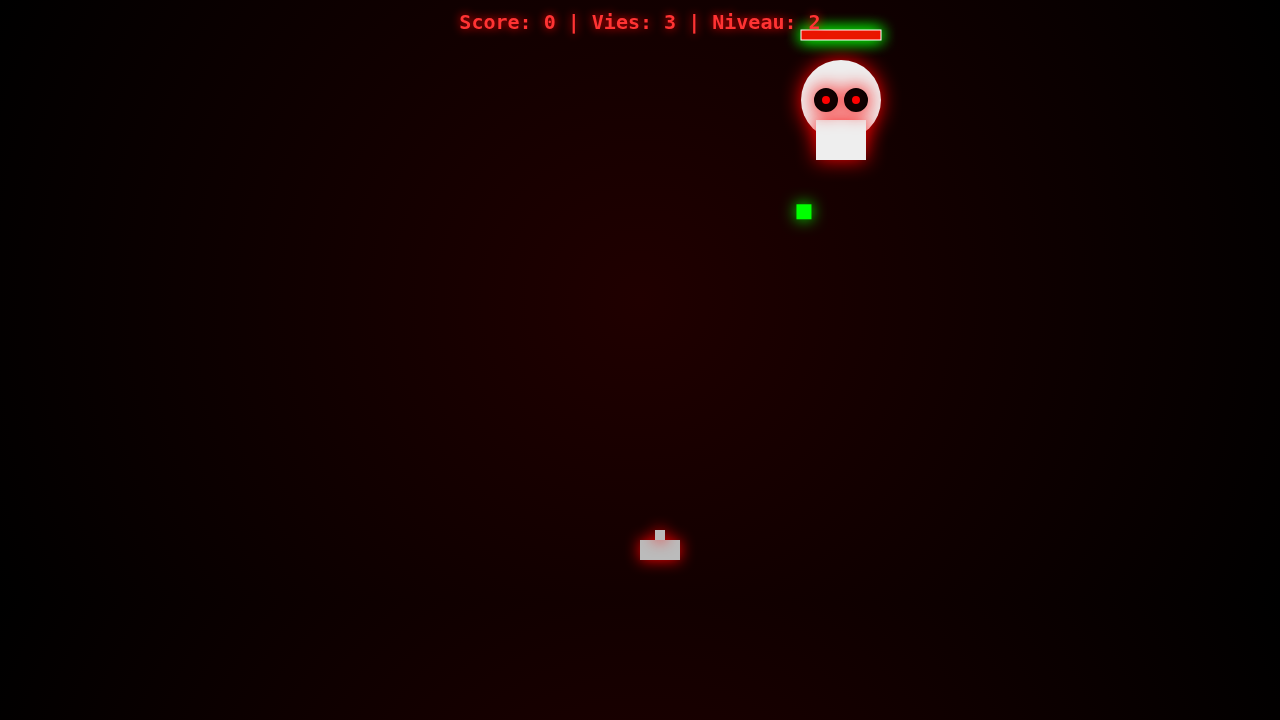
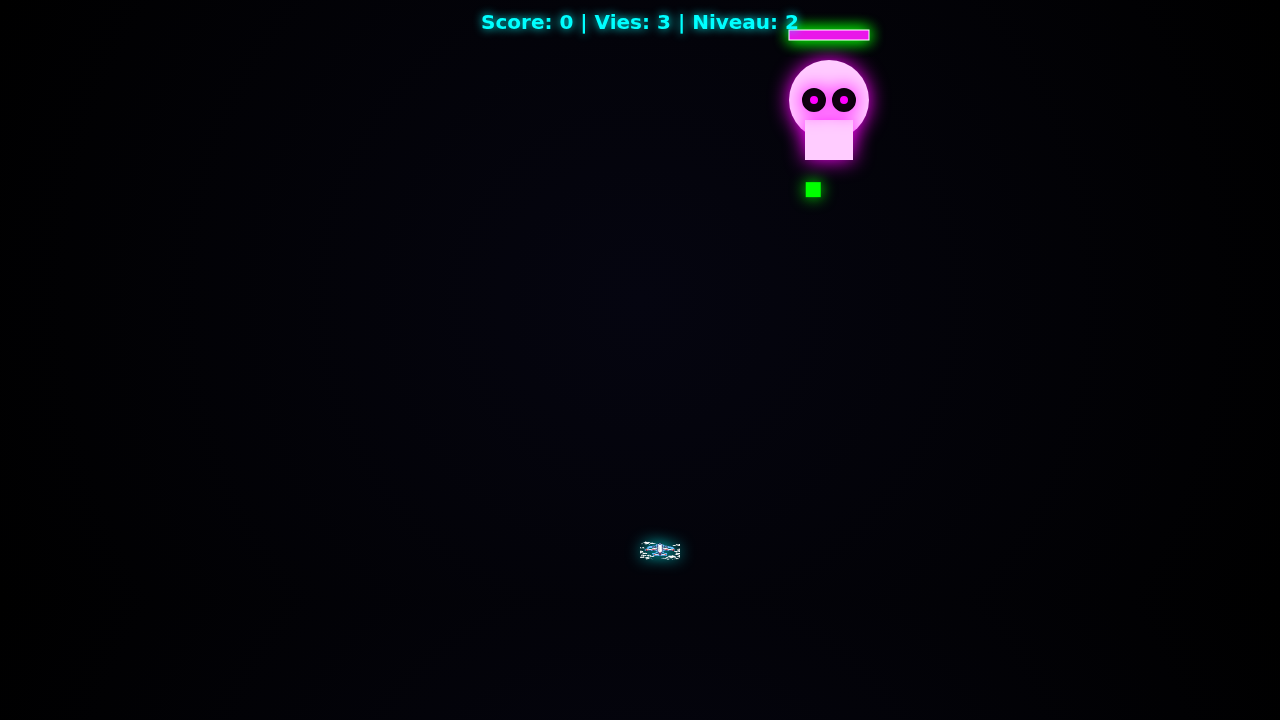
Reskin game to Neon Space Invaders and integrate player sprite

Changed region(s): [[0.3438, 0.0, 0.7188, 0.3056], [0.4375, 0.3056, 0.5625, 0.5194], [0.4688, 0.7028, 0.5625, 0.7944]]

diff --git a/index.html b/index.html
@@ -2,14 +2,14 @@
 <html lang="fr">
 <head>
 <meta charset="UTF-8">
-<title>Horror Space Invaders</title>
+<title>Neon Space Invaders</title>
 <style>
     html, body {
         margin: 0;
-        background: radial-gradient(circle at center, #200000, #000);
+        background: radial-gradient(circle at center, #050510, #000);
         overflow: hidden;
-        font-family: 'Courier New', monospace;
-        color: #ff3333;
+        font-family: 'Arial', sans-serif;
+        color: cyan;
     }
 
     canvas {
@@ -23,7 +23,7 @@
         width: 100%;
         text-align: center;
         font-size: 20px;
-        text-shadow: 0 0 10px #ff0000;
+        text-shadow: 0 0 10px cyan;
         font-weight: bold;
     }
 
@@ -31,36 +31,36 @@
         position: absolute;
         inset: 0;
         display: none;
-        background: rgba(0,0,0,0.9);
+        background: rgba(0,0,0,0.85);
         flex-direction: column;
         align-items: center;
         justify-content: center;
-        color: #ff0000;
-        text-shadow: 0 0 20px #ff0000;
+        color: magenta;
+        text-shadow: 0 0 20px magenta;
     }
 
     #gameOver h1 {
         font-size: 60px;
         margin-bottom: 20px;
-        border-bottom: 2px solid #ff0000;
+        border-bottom: 2px solid magenta;
     }
 
     #gameOver button {
         margin-top: 20px;
         padding: 12px 30px;
         font-size: 20px;
-        font-family: 'Courier New', monospace;
+        font-family: 'Arial', sans-serif;
         cursor: pointer;
-        background: #110000;
-        color: #ff3333;
-        border: 2px solid #ff3333;
-        box-shadow: 0 0 15px #ff0000;
+        background: #000;
+        color: magenta;
+        border: 2px solid magenta;
+        box-shadow: 0 0 15px magenta;
         transition: 0.3s;
     }
 
     #gameOver button:hover {
-        background: #ff3333;
-        color: black;
+        background: magenta;
+        color: white;
     }
 </style>
 </head>
@@ -81,6 +81,9 @@
 ========================== */
 const canvas = document.getElementById("game");
 const ctx = canvas.getContext("2d");
+
+const playerImg = new Image();
+playerImg.src = "player.png";
 
 let score = 0;
 let lives = 3;
@@ -577,7 +580,7 @@ function drawBoss() {
     if (boss.isPhantom) {
         ctx.shadowColor = "#00ff00"; // Phantom Green
     } else {
-        ctx.shadowColor = boss.isMega ? "#aa00ff" : "#ff0000";
+        ctx.shadowColor = boss.isMega ? "#aa00ff" : "magenta";
     }
     ctx.shadowBlur = 20;
 
@@ -596,7 +599,7 @@ function drawBoss() {
     if (boss.isPhantom) {
         ctx.fillStyle = "#ccffcc"; // Ghostly Green
     } else {
-        ctx.fillStyle = boss.isMega ? "#ccbbff" : "#eeeeee";
+        ctx.fillStyle = boss.isMega ? "#ccbbff" : "#ffccff";
     }
 
     ctx.beginPath();
@@ -614,7 +617,7 @@ function drawBoss() {
     // Glowing eyes
     if (boss.phase === BOSS_PHASE.STUNNED) {
         // X eyes for stunned
-        ctx.strokeStyle = "#ff0000";
+        ctx.strokeStyle = "magenta";
         ctx.lineWidth = 3;
 
         // Left Eye X
@@ -628,7 +631,7 @@ function drawBoss() {
         if (boss.isPhantom) {
              ctx.fillStyle = "#00ff00";
         } else {
-             ctx.fillStyle = boss.phase === BOSS_PHASE.LASER_FIRE ? "#ffffff" : "#ff0000";
+             ctx.fillStyle = boss.phase === BOSS_PHASE.LASER_FIRE ? "#ffffff" : "magenta";
         }
         ctx.beginPath();
         ctx.arc(-15, -10, 4, 0, Math.PI*2);
@@ -645,7 +648,7 @@ function drawBoss() {
 
     if (boss.isPhantom) ctx.fillStyle = "#00ff00";
     else if (boss.isMega) ctx.fillStyle = "#aa00ff";
-    else ctx.fillStyle = "#ff0000";
+    else ctx.fillStyle = "magenta";
 
     ctx.fillRect(boss.x, boss.y - 30, boss.width * (Math.max(0, boss.hp) / boss.maxHp), 10);
     ctx.strokeStyle = "#fff";
@@ -675,7 +678,7 @@ function createExplosion(x, y) {
             vx: (Math.random() - 0.5) * 4,
             vy: (Math.random() - 0.5) * 4,
             life: 40,
-            color: Math.random() > 0.5 ? "#ff0000" : "#880000"
+            color: Math.random() > 0.5 ? "cyan" : "magenta"
         });
     }
 }
@@ -972,11 +975,25 @@ function draw() {
 
     // Joueur
     ctx.shadowBlur = 15;
-    ctx.shadowColor = player.invincible ? "#ffd700" : "#ff0000";
-    ctx.fillStyle = player.invincible ? "#ffff00" : "#bbbbbb";
+    ctx.shadowColor = player.invincible ? "gold" : "cyan";
+
+    // Draw Sprite
+    if (playerImg.complete) {
+        ctx.drawImage(playerImg, player.x, player.y, player.width, player.height);
+    } else {
+        // Fallback
+        ctx.fillStyle = "cyan";
+        ctx.fillRect(player.x, player.y, player.width, player.height);
+    }
+
+    if (player.invincible) {
+         ctx.strokeStyle = "gold";
+         ctx.lineWidth = 2;
+         ctx.strokeRect(player.x - 2, player.y - 2, player.width + 4, player.height + 4);
+    }
 
     if (player.shield) {
-        ctx.strokeStyle = "#0000ff";
+        ctx.strokeStyle = "blue";
         ctx.lineWidth = 3;
         ctx.beginPath();
         ctx.arc(player.x + player.width/2, player.y + player.height/2, 30, 0, Math.PI * 2);
@@ -984,30 +1001,30 @@ function draw() {
     }
 
     if (player.rapidFireTimer > 0) {
-        ctx.shadowColor = "#ffff00";
+        ctx.shadowColor = "yellow";
     }
 
     if (player.charge > 0) {
-        ctx.shadowColor = `rgba(255, 100, 0, ${player.charge/60})`;
+        ctx.shadowColor = `rgba(0, 255, 255, ${player.charge/60})`;
         ctx.shadowBlur = 10 + (player.charge/2);
     }
 
-    ctx.fillRect(player.x, player.y, player.width, player.height);
-    ctx.fillRect(player.x + 15, player.y - 10, 10, 10);
-
-    ctx.fillStyle = player.rapidFireTimer > 0 ? "#ffff00" : "#ff4400";
+    // Bullets
+    ctx.fillStyle = player.rapidFireTimer > 0 ? "yellow" : "cyan";
     bullets.forEach(b => ctx.fillRect(b.x - 2, b.y, 4, 12));
 
-    ctx.fillStyle = "#ffaa00";
-    ctx.shadowColor = "#ff0000";
+    // Mega Bombs (Magenta)
+    ctx.fillStyle = "magenta";
+    ctx.shadowColor = "magenta";
     megaBombs.forEach(b => {
         ctx.beginPath();
         ctx.arc(b.x, b.y, b.size, 0, Math.PI * 2);
         ctx.fill();
     });
 
+    // Explosions (Purple/Cyan)
     damageExplosions.forEach(e => {
-        ctx.fillStyle = `rgba(255, 50, 0, ${e.life/20})`;
+        ctx.fillStyle = `rgba(180, 0, 255, ${e.life/20})`;
         ctx.beginPath();
         ctx.arc(e.x, e.y, e.radius, 0, Math.PI * 2);
         ctx.fill();
@@ -1023,7 +1040,7 @@ function draw() {
         ctx.fillRect(p.x - 10, p.y - 10, 20, 20);
 
         ctx.fillStyle = "black";
-        ctx.font = "bold 15px Courier New";
+        ctx.font = "bold 15px Arial, sans-serif";
         ctx.fillText(p.label, p.x - 5, p.y + 5);
     });
 
@@ -1037,7 +1054,7 @@ function draw() {
             ctx.translate(a.x, a.y);
             ctx.rotate(a.angle * 0.2);
 
-            ctx.shadowColor = "#330000";
+            ctx.shadowColor = "#003333";
             ctx.shadowBlur = 10;
 
             ctx.fillStyle = "#eeeeee";
@@ -1080,9 +1097,9 @@ function draw() {
         ctx.fillRect(0, 0, canvas.width, canvas.height);
 
         ctx.fillStyle = "white";
-        ctx.font = "bold 40px 'Courier New', monospace";
+        ctx.font = "bold 40px 'Arial', sans-serif";
         ctx.textAlign = "center";
-        ctx.shadowColor = "red";
+        ctx.shadowColor = "cyan";
         ctx.shadowBlur = 10;
         ctx.fillText("PAUSE", canvas.width / 2, canvas.height / 2);
         ctx.textAlign = "start"; // reset to default

diff --git a/verification/verify_neon.py b/verification/verify_neon.py
@@ -1,0 +1,20 @@
+from playwright.sync_api import sync_playwright
+
+def verify_theme_and_sprite():
+    with sync_playwright() as p:
+        browser = p.chromium.launch(headless=True)
+        page = browser.new_page()
+        # Open the local file directly
+        page.goto("file:///app/index.html")
+
+        # Wait for the game canvas to load
+        page.wait_for_selector("#game")
+
+        # Take a screenshot
+        page.screenshot(path="/home/jules/verification/neon_sprite_verification.png")
+        print("Screenshot saved to /home/jules/verification/neon_sprite_verification.png")
+
+        browser.close()
+
+if __name__ == "__main__":
+    verify_theme_and_sprite()
